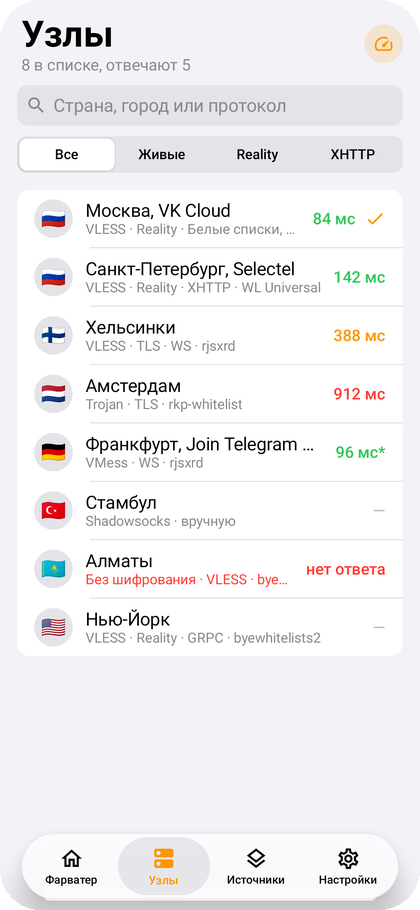
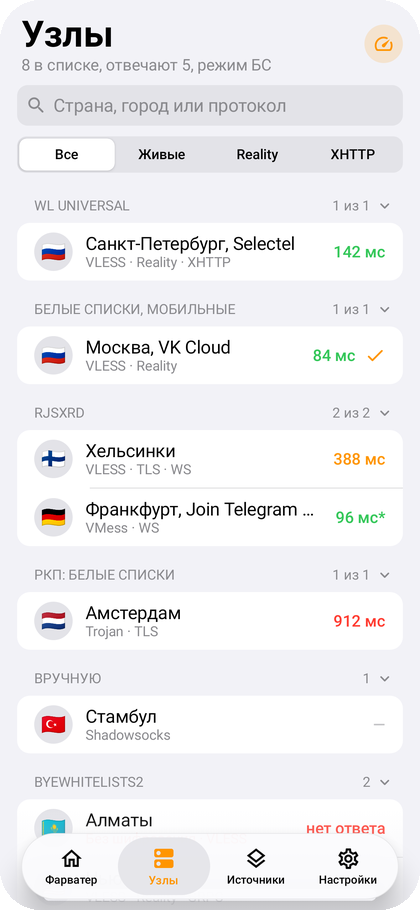
Фарватер 1.0.8: README, список изменений, новые скриншоты

diff --git a/README.md b/README.md
@@ -88,8 +88,9 @@
 **Подписки**
 
 - Свои подписки по ссылке и отдельные узлы из буфера обмена.
-- Каталог из шести публичных подписок от сообщества, выключен по умолчанию.
-- Обновление любой подписки отдельной кнопкой, включая публичные.
+- Каталог из семи публичных подписок от сообщества, выключен по умолчанию.
+- Режимы сети: белые списки (БС) и чёрные списки (ЧС). У каждой подписки свой режим, а в режиме «Авто» Фарватер сам определяет, какие сейчас ограничения.
+- Свой интервал обновления для каждой подписки: от раза в час до раза в сутки или только вручную.
 - Поддержка HWID для панелей с ограничением числа устройств.
 - Чтение заголовков `profile-title` и `announce`. Объявления от владельцев подписок показываются на главном экране.
 
@@ -98,6 +99,7 @@
 - Проверка идёт в два этапа. Сначала быстрое TCP-соединение со всеми узлами, затем настоящий HTTP-запрос через ядро к тем, кто ответил.
 - Три режима скорости: бережный, обычный и быстрый.
 - Во время проверки список не перестраивается, результаты появляются пачками раз в 300 мс.
+- Узлы сгруппированы по подпискам, группы можно сворачивать.
 - Поиск по стране, городу и протоколу, фильтры «Живые», Reality и XHTTP.
 
 **Маршрутизация**
@@ -109,7 +111,7 @@
 **Интерфейс и обновления**
 
 - Интерфейс в стиле iOS: капсульная панель вкладок, анимации на пружинах, светлая и тёмная темы.
-- Проверка новых версий каждые 15 минут, уведомление со списком изменений.
+- Уведомление о новой версии со списком изменений. Пока включён VPN, оно приходит в течение минуты после выхода.
 - Скачивание обновления внутри приложения со сверкой SHA-256.
 
 ## Скриншоты
@@ -206,7 +208,7 @@ sha256sum --check --ignore-missing SHA256SUMS.txt
 
 ### Обновление
 
-Фарватер сам проверяет новые версии каждые 15 минут и при каждом открытии. Найдя новую, он присылает уведомление, а в открытом приложении сразу показывает окно «Что нового». В окне обновления видно, что изменилось. Срочные исправления помечаются отдельно. После нажатия «Обновить» приложение скачивает APK, сверяет его SHA-256 с опубликованным и передаёт системному установщику. Настройки и подписки сохраняются.
+Пока включён VPN и горит экран, Фарватер проверяет новые версии раз в минуту и сразу при включении экрана. Когда VPN выключен, проверка идёт в фоне каждые 15 минут и при каждом открытии. Найдя новую, он присылает уведомление, а в открытом приложении сразу показывает окно «Что нового». В окне обновления видно, что изменилось. Срочные исправления помечаются отдельно. После нажатия «Обновить» приложение скачивает APK, сверяет его SHA-256 с опубликованным и передаёт системному установщику. Настройки и подписки сохраняются.
 
 Проверить вручную: **Настройки → О приложении → Обновления**.
 
@@ -232,9 +234,25 @@ sha256sum --check --ignore-missing SHA256SUMS.txt
 
 **Мои подписки.** Кнопка «Добавить подписку» принимает ссылку на подписку из панели (Marzban, 3x-ui, Remnawave и других). Кнопка «Вставить из буфера» принимает ссылку на подписку, одну или несколько ссылок на узлы (`vless://`, `vmess://`, `trojan://`, `ss://`) или содержимое подписки в Base64.
 
-**Публичные подписки.** Шесть источников от сторонних авторов, каждый включается своим переключателем. Под названием указаны автор, лицензия, число узлов и время последнего обновления.
+**Публичные подписки.** Семь источников от сторонних авторов, каждый включается своим переключателем. Под названием указаны режим, интервал обновления, автор, лицензия, число узлов и время последнего обновления.
 
-При запуске Фарватер сам обновляет подписки, которые не обновлялись больше шести часов. Обновить все подписки вручную можно круглой кнопкой в правом верхнем углу или жестом сверху вниз. Чтобы обновить одну подписку, нажмите на неё и выберите «Обновить».
+**Режим сети.** Переключатель вверху вкладки: «Авто», «БС» или «ЧС».
+
+- **БС** — белые списки: работают только разрешённые сайты, обычные серверы недоступны. Фарватер берёт узлы из подписок с пометкой БС.
+- **ЧС** — чёрные списки, обычные блокировки. Работают подписки с пометкой ЧС.
+- **Авто** — Фарватер проверяет, открываются ли зарубежные сайты, и выбирает режим сам. Проверка идёт при открытии приложения и перед поиском рабочего узла.
+
+Подписки, которые не подходят к текущему режиму, видны бледнее и в поиск узла не попадают. Свои подписки по умолчанию работают в обоих режимах.
+
+**Карточка подписки.** Нажмите на подписку, чтобы выбрать её режим и интервал обновления:
+
+| Интервал | Когда обновляется |
+| :-- | :-- |
+| Авто | Как просит сама подписка в заголовке `profile-update-interval`, а если не просит — раз в 6 часов |
+| Каждый час, 3, 6, 12 часов, раз в сутки | Через выбранное время после прошлого обновления |
+| Только вручную | Только кнопкой «Обновить сейчас» |
+
+Обновить все подписки сразу можно круглой кнопкой в правом верхнем углу или жестом сверху вниз.
 
 ### Подключение и выбор узла
 
@@ -242,7 +260,7 @@ sha256sum --check --ignore-missing SHA256SUMS.txt
 
 Если выбранный узел не работает, нажмите **«Найти рабочий узел»**. Фарватер проверит все узлы из включённых подписок и подключится к самому быстрому. Прогресс видно на главном экране, проверку можно остановить.
 
-Выбрать узел вручную можно на вкладке «Узлы». Кнопка в правом верхнем углу проверяет задержку всех узлов. Рядом с узлом видна задержка в миллисекундах или пометка «нет ответа». Звёздочка после цифры означает, что узел проверен только TCP-соединением, без запроса через ядро.
+Выбрать узел вручную можно на вкладке «Узлы». Узлы там сгруппированы по подпискам, нажатие на заголовок группы сворачивает её. Кнопка в правом верхнем углу проверяет задержку всех узлов. Рядом с узлом видна задержка в миллисекундах или пометка «нет ответа». Звёздочка после цифры означает, что узел проверен только TCP-соединением, без запроса через ядро.
 
 ### Импорт по ссылке
 
@@ -268,7 +286,7 @@ farvater://import?url=https%3A%2F%2Fexample.com%2Fsub%2Ftoken
 | Проверка узлов | Скрывать неработающие | выкл. | Убирает из списка узлы без ответа. |
 | Проверка узлов | Скорость проверки | обычно | Сколько узлов проверяется одновременно: 8, 16 или 32. |
 | Защита | Работа в фоне | — | Открывает страницу Фарватера в настройках Android, где снимаются ограничения батареи. |
-| О приложении | Проверять автоматически | вкл. | Фоновая проверка обновлений каждые 15 минут. |
+| О приложении | Проверять автоматически | вкл. | Проверка обновлений: раз в минуту при включённом VPN, иначе раз в 15 минут. |
 
 ## Поддерживаемые протоколы
 
@@ -467,7 +485,7 @@ Google Play удаляет такие приложения по требован
 - [Xray-core](https://github.com/XTLS/Xray-core) — Project X, MPL-2.0
 - [AndroidLibXrayLite](https://github.com/2dust/AndroidLibXrayLite) — 2dust, LGPL-3.0
 - [hev-socks5-tunnel](https://github.com/heiher/hev-socks5-tunnel) — hev, MIT
-- Авторы публичных подписок из каталога: [zieng2](https://github.com/zieng2/wl), [igareck](https://github.com/igareck/vpn-configs-for-russia), [whoahaow](https://github.com/whoahaow/rjsxrd), [RKPchannel](https://github.com/RKPchannel/RKP_bypass_configs), [ByeWhiteLists](https://byewhitelists.github.io/)
+- Авторы публичных подписок из каталога: [zieng2](https://github.com/zieng2/wl), [igareck](https://github.com/igareck/vpn-configs-for-russia), [whoahaow](https://github.com/whoahaow/rjsxrd), [РКП](https://hub.mos.ru/rkp/sub-roskompozor), [ByeWhiteLists](https://byewhitelists.github.io/)
 
 Полный список библиотек и лицензий — в [legal/licenses.txt](legal/licenses.txt).
 

diff --git a/CHANGELOG.md b/CHANGELOG.md
@@ -4,6 +4,27 @@
 
 ## [Не выпущено]
 
+## [1.0.8] — 2026-10-06
+
+### Добавлено
+
+- Режимы сети: белые списки (БС) и чёрные списки (ЧС). У каждой подписки свой режим: только БС, только ЧС или оба. В режиме «Авто» Фарватер сам проверяет, открываются ли зарубежные сайты, и включает подходящие подписки.
+- Интервал обновления для каждой подписки: авто, каждый час, 3, 6, 12 часов, раз в сутки или только вручную.
+- Карточка подписки с режимом, интервалом и действиями.
+- Группировка узлов по подпискам на вкладке «Узлы», группы сворачиваются.
+- Подписки РКП «Анти-РосКомПозор» для белых и чёрных списков.
+
+### Изменено
+
+- Пока включён VPN и горит экран, обновления проверяются раз в минуту и сразу при включении экрана.
+- Новый значок приложения и уведомлений.
+- Строки списка узлов перерисовываются только при изменении своих данных.
+- Из кода убраны комментарии.
+
+### Удалено
+
+- Старая подписка «РКП whitelist».
+
 ## [1.0.7] — 2026-10-06
 
 ### Исправлено
@@ -97,7 +118,8 @@
 - Интерфейс в стиле iOS, светлая и тёмная темы.
 - Импорт подписки по ссылке `farvater://import`.
 
-[Не выпущено]: https://github.com/lutzashl290788-cell/farvater/compare/v1.0.7...HEAD
+[Не выпущено]: https://github.com/lutzashl290788-cell/farvater/compare/v1.0.8...HEAD
+[1.0.8]: https://github.com/lutzashl290788-cell/farvater/compare/v1.0.7...v1.0.8
 [1.0.7]: https://github.com/lutzashl290788-cell/farvater/compare/v1.0.6...v1.0.7
 [1.0.6]: https://github.com/lutzashl290788-cell/farvater/compare/v1.0.5...v1.0.6
 [1.0.5]: https://github.com/lutzashl290788-cell/farvater/compare/v1.0.4...v1.0.5
